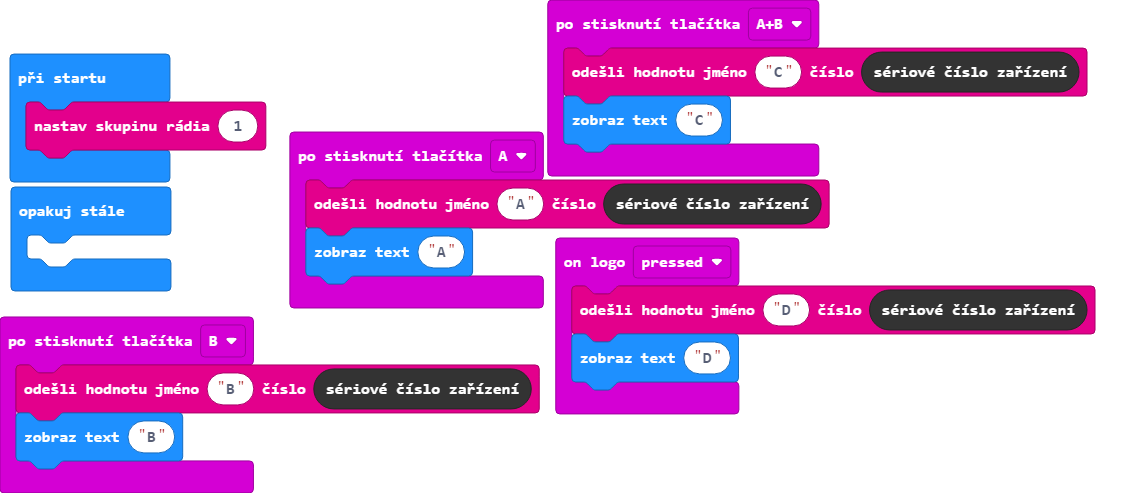
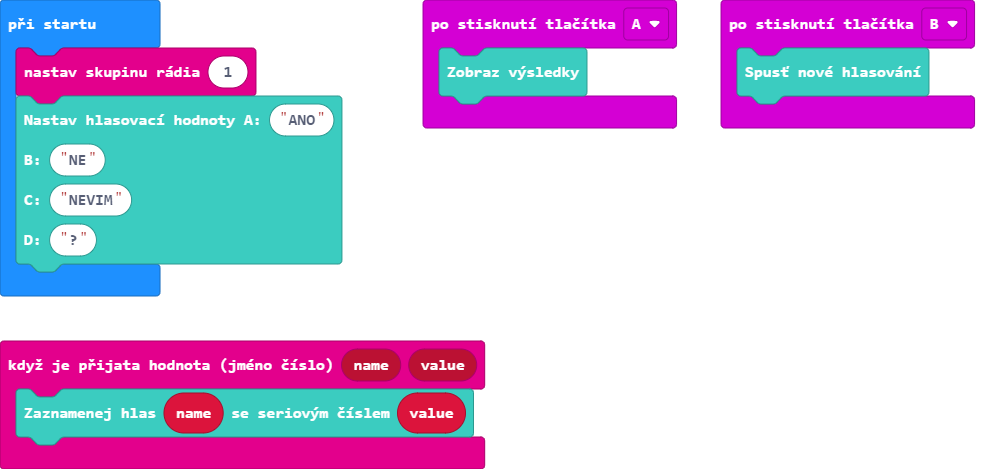
Aktualizovat pxt.json, main.blocks, main.ts, collector.ts

diff --git a/collector.ts b/collector.ts
@@ -1,35 +1,31 @@
-/**
- * Použijte tento soubor k definování personalizovaných funkcí a bloků.
- * Přečtěte si více na https://makecode.microbit.org/blocks/custom
- */
-
-
-/**
- * Custom blocks
- */
-//% weight=100 color=#3bccc0 icon="\uf233"
+//% weight=100 color=#3bccc0 icon="\uf233" block="Server"
 namespace Server {
-    let A = "";
-    let B = "";
-    let C = "";
-    let D = "";
-    let Dcount = 0
-    let Ccount = 0
-    let Bcount = 0
-    let Acount = 0
-    let serialNumbers: number[] = []
-    let answers: string[] = []
+    let a = "";
+    let b = "";
+    let c = "";
+    let d = "";
+    let pocetD = 0
+    let pocetC = 0
+    let pocetB = 0
+    let pocetA = 0
+    let seriovaCisla: number[] = []
+    let odpovedi: string[] = []
     
     /**
     * Nastaví hodnoty pro různé hlasovací možnosti
-    */
-    //% block="Nastav hlasovací hodnoty A: %a B: %b C: %c D: %d"
+    * @moznostA Hlasovací možnost A
+    * @moznostB Hlasovací možnost B
+    * @moznostC Hlasovací možnost C
+    * @moznostD Hlasovací možnost D
 
-    export function vychoziNastaveni(Aoption: string, Boption: string, Coption: string, Doption: string): void {
-        A = Aoption;
-        B = Boption;
-        C = Coption;
-        D = Doption;
+    */
+    //% block="Nastav hlasovací hodnoty A: %moznostA B: %moznostB C: %moznostC D: %moznostD"
+
+    export function vychoziNastaveni(moznostA: string, moznostB: string, moznostC: string, moznostD: string): void {
+        a = moznostA;
+        b = moznostB;
+        c = moznostC;
+        d = moznostD;
     }
 
 
@@ -39,17 +35,17 @@ namespace Server {
     //% block="Zobraz výsledky"
 
     export function zobrazVysledky(): void {
-        Dcount = 0
-        Ccount = 0
-        Bcount = 0
-        Acount = 0
-        for (let item of answers) {
+        pocetD = 0
+        pocetC = 0
+        pocetB = 0
+        pocetA = 0
+        for (let item of odpovedi) {
             spocitejVyskyty(item)
         }
-        basic.showString("" + A + " " + Acount)
-        basic.showString("" + B + " " + Bcount)
-        basic.showString("" + C + " " + Ccount)
-        basic.showString("" + D + " " + Dcount)
+        basic.showString("" + a + " " + pocetA)
+        basic.showString("" + b + " " + pocetB)
+        basic.showString("" + c + " " + pocetC)
+        basic.showString("" + d + " " + pocetD)
     }
 
     /**
@@ -58,12 +54,12 @@ namespace Server {
     //% block="Spusť nové hlasování"
 
     export function noveHlasovani(): void {
-        answers = []
-        serialNumbers = []
-        Acount = 0
-        Bcount = 0
-        Ccount = 0
-        Dcount = 0
+        odpovedi = []
+        seriovaCisla = []
+        pocetA = 0
+        pocetB = 0
+        pocetC = 0
+        pocetD = 0
     }
 
     /**
@@ -72,17 +68,17 @@ namespace Server {
     //% block="Zaznamenej hlas %hlas se seriovým číslem %serioveCislo"
 
     export function zaznamenatHlas(hlas: string, serioveCislo: number): void {
-        let contains = false
-        for (let number of serialNumbers) {
+        let obsahuje = false
+        for (let number of seriovaCisla) {
             if (number == serioveCislo) {
-                contains = true
+                obsahuje = true
             }
         }
-        if (contains == false) {
-            answers.push(hlas)
-            serialNumbers.push(serioveCislo)
+        if (obsahuje == false) {
+            odpovedi.push(hlas)
+            seriovaCisla.push(serioveCislo)
         } else {
-            answers[serialNumbers.indexOf(serioveCislo)] = hlas
+            odpovedi[seriovaCisla.indexOf(serioveCislo)] = hlas
         }
     }
 
@@ -90,16 +86,16 @@ namespace Server {
     function spocitejVyskyty(text: string) {
         switch (text.toLowerCase()) {
             case "a":
-                Acount++
+                pocetA++
                 break
             case "b":
-                Bcount++
+                pocetB++
                 break
             case "c":
-                Ccount++
+                pocetC++
                 break
             case "d":
-                Dcount++
+                pocetD++
                 break
         }
     }

diff --git a/main.ts b/main.ts
@@ -12,5 +12,5 @@ Server.vychoziNastaveni(
 "ANO",
 "NE",
 "NEVIM",
-"MOZNA"
+"?"
 )
